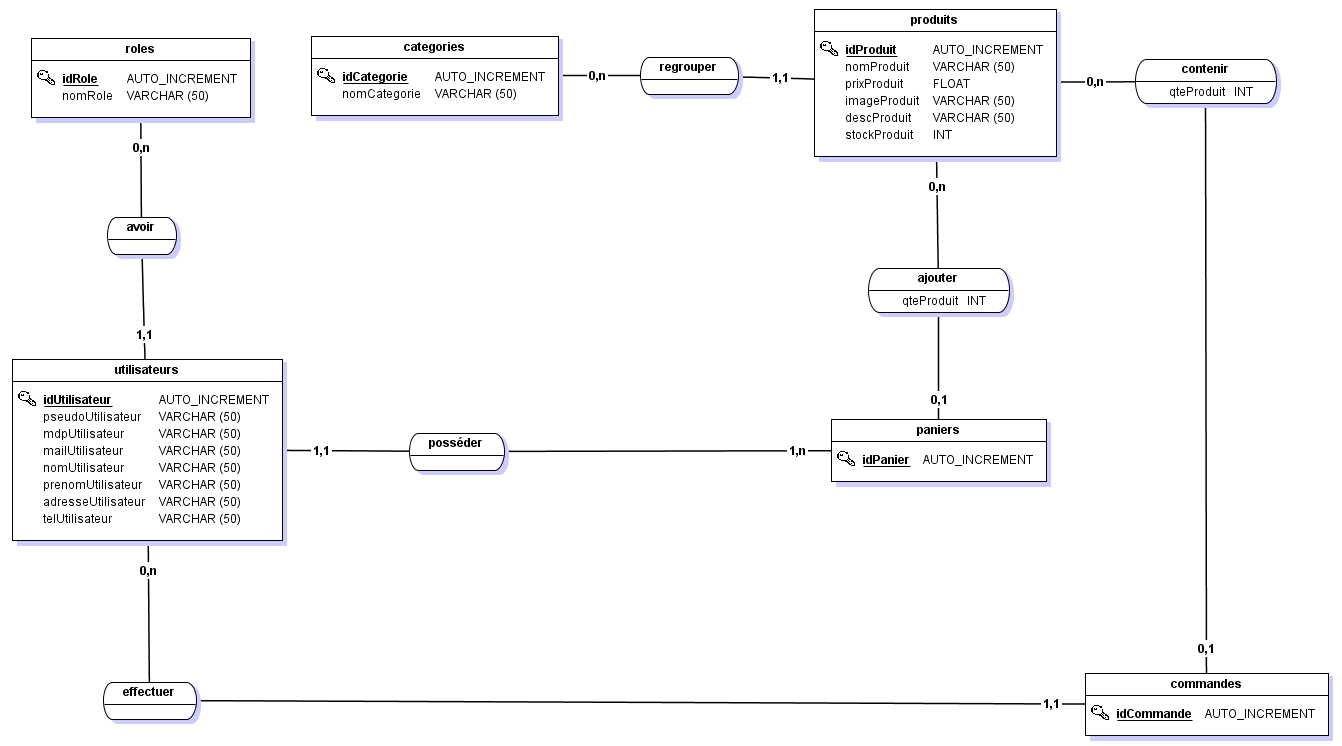
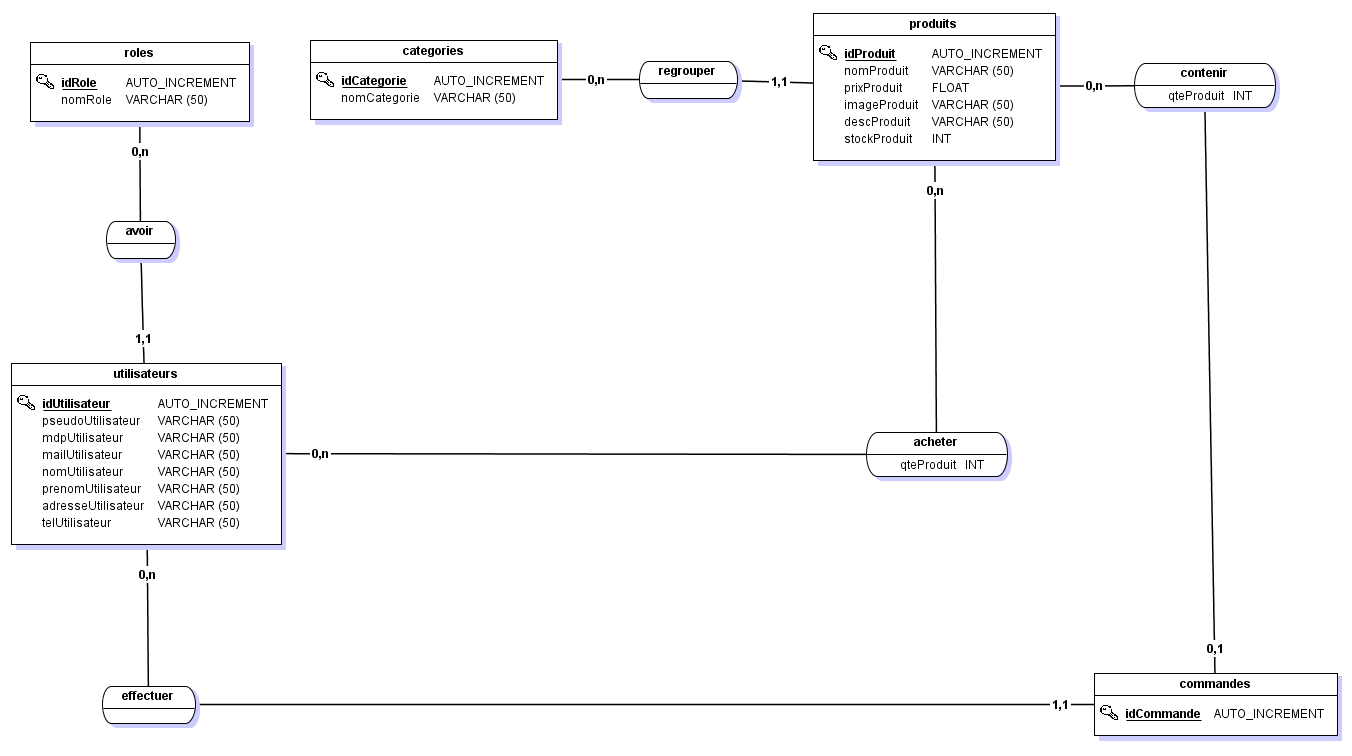
MG

diff --git a/PHP/controleur/Utilisateurs.class.php b/PHP/controleur/Utilisateurs.class.php
@@ -13,14 +13,13 @@
 		private $_adresseUtilisateur;
 		private $_telUtilisateur;
 		private $_idRole;
-		private $_idPanier;
 		
 		/* ****************Accesseurs***************** */
 
 		public function setIdUtilisateur($idUtilisateur){
 			$this->_idUtilisateur = $idUtilisateur;
 		}
-		
+
 		public function getIdUtilisateur(){
 			return $this->_idUtilisateur;
 		}
@@ -87,14 +86,6 @@
 
 		public function getIdRole(){
 			return $this->_idRole;
-		}
-
-		public function setIdPanier($_idPanier){
-			$this->_idPanier = $_idPanier;
-		}
-
-		public function getIdPanier(){
-			return $this->_idPanier;
 		}
 
 		/* ****************Constructeur***************** */

diff --git a/PHP/controleur/Paniers.class.php b/PHP/controleur/Paniers.class.php
@@ -5,6 +5,7 @@
 		/* ****************Attributs***************** */
 
 		private $_idPanier;
+        private $_idUtilisateur;
 		private $_idProduit;
 		private $_qteProduit;
 		
@@ -16,6 +17,14 @@
 
 		public function getIdPanier(){
 			return $this->_idPanier;
+		}
+
+        public function setIdUtilisateur($_idUtilisateur){
+			$this->_idUtilisateur = $_idUtilisateur;
+		}
+
+		public function getIdUtilisateur(){
+			return $this->_idUtilisateur;
 		}
 
 		public function setIdProduit($_idProduit){
